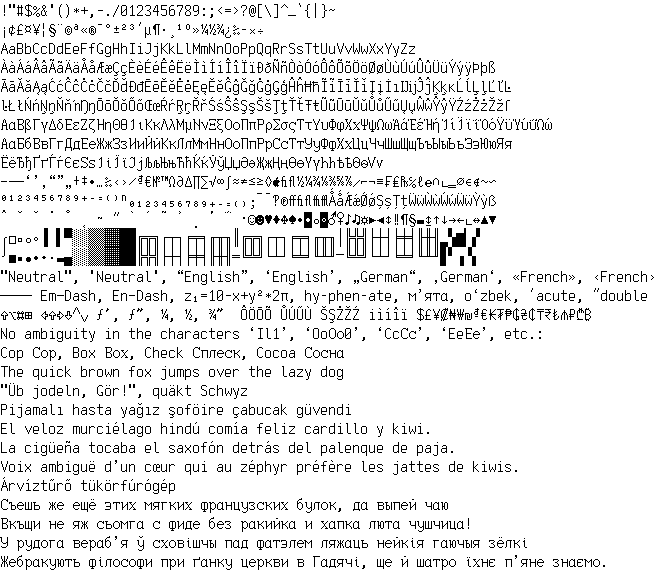
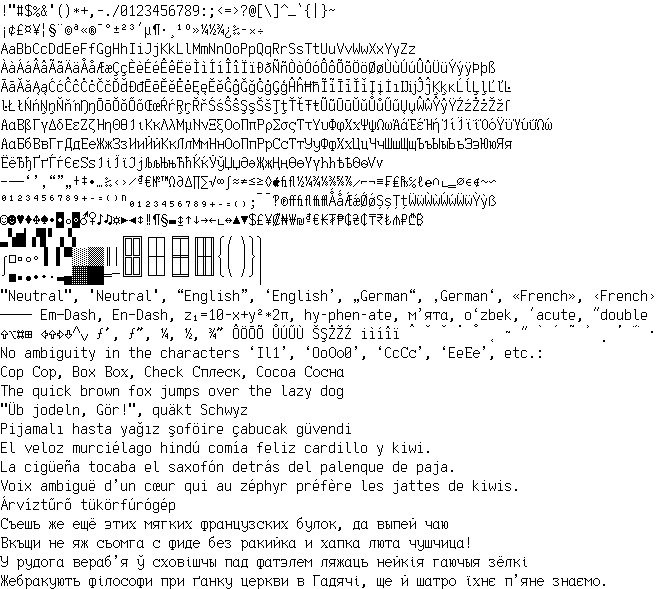
New codepoints

Changed region(s): [[0.0, 0.0, 1.0, 1.0], [0.5488, 0.8649, 0.7927, 1.0], [0.7927, 0.9842, 0.9146, 1.0]]

diff --git a/export.js b/export.js
@@ -52,7 +52,7 @@ function getAsciiImage() {
 function getTableText() {
     let latestGroup = '';
     let latestPos = 0;
-    const groupCols = ['000', '039', '220'];
+    const groupCols = ['000', '034', '219'];
     const colHeader = 'Code ' + [...Array(16).keys()].map(n => toHex(n, 1)).join(' ') + ' ';
     const cols = groupCols.map(() => [colHeader])
     for (let char of chars) {
@@ -129,15 +129,16 @@ writeFileSync('./Example.png', getImage([
     'ЁёЂђҐґЃѓЄєЅѕІіЇїЈјЉљЊњЋћЌќЎўЏџӘәҖҗҢңӨөҮүҺһѢѣѲѳѴѵ',
     '–—―‘’‚“”„†‡•…‰‹›⁄₫€№™Ω∂∆∏∑√∞∫≈≠≤≥◊\uF8FFﬁﬂ½¼¾⅛⅜⅝⅞∕⌐¬≡₣₤₧℅ℓ℮∩∟‗⌀∈∉∼∽',
     '⁰¹²³⁴⁵⁶⁷⁸⁹⁺⁻⁼⁽⁾ⁿ₀₁₂₃₄₅₆₇₈₉₊₋₌₍₎;‾ˉ‽℗ﬀﬁﬂﬃﬄǺǻǼǽǾǿȘșȚțẄẅẀẁẂẃẄẅỲỳẞ',
-    'ˆ ˇ ˘ ˙ ˚ ˛ ˜ ˝ ̀ ́ ̃ ̉ ̣ ΄ ΅ ·☺☻♥♦♣♠•◘○◙♂♀♪♫☼►◄↕‼¶§▬↨↑↓→←∟↔▲▼',
-    '⌠□▫○◦▐ ▌▀░░▒▒▓▓██╔╦╗┌┬┐╒╤╕╓╥╖║╔╦╗┌┬┐╒╤╕╓╥╖│╠╬╣├┼┤╞╪╡╟╫╢▂▚▆▎▞',
-    '⌡■▪●•∙·▬▄░░▒▒▓▓██╠╬╣├┼┤╞╪╡╟╫╢═╚╩╝└┴┘╘╧╛╙╨╜─╚╩╝└┴┘╘╧╛╙╨╜▊▘▗▝▖',
+    '☺☻♥♦♣♠•◘○◙♂♀♪♫☼►◄↕‼¶§▬↨↑↓→←∟↔▲▼$£¥₡₦₩₪₫€₭₮₱₲₴₵₸₹₺₼₽₾₿',
+    '▂▚▆▎▞▊▘▗▝▖     ╔╦╗┌┬┐╒╤╕╓╥╖⎧⎛ ⎞⎫⎫',
+    '⌠□▫○◦▐ ▌▀░░▒▒║│╠╬╣├┼┤╞╪╡╟╫╢⎨⎜ ⎟⎬⎪',
+    '⌡■▪●•∙·▬▄▓▓██═─╚╩╝└┴┘╘╧╛╙╨╜⎩⎝ ⎠⎭⎪',
     //TODO: '╮╰╯╭╲╱◥▔▁▏▕◤▍▃✓✔✕✖╳⚠ℹ',
     //TODO: Mac OS Symbol/Font X
-    //'∠⊗⊕∅⏐⎯↵ϒ⊥ϖℵℑℜ℘ϑϕ∝∇∴⎷√╲╱⌟≃⎼␤⋅∪⊃⊂∧∨⇔⇐⇑⇒⇓⊇⊄⊆⟨⟩⎲⎳⎡⎣⎤⎦⎛⎝⎞⎠⎨⎬⎜⎢⎧⎩⎪⎮⎟⎥⎫⎭',    
+    //'∠⊗⊕∅⏐⎯↵ϒ⊥ϖℵℑℜ℘ϑϕ∝∇∴⎷√╲╱⌟≃⎼␤⋅∪⊃⊂∧∨⇔⇐⇑⇒⇓⊇⊄⊆⟨⟩⎲⎳⎡⎣⎤⎦⎢⎮⎥',
     '"Neutral", \'Neutral\', “English”, ‘English’, „German“, ‚German‘, «French», ‹French›',
     '―――― Em—Dash, En–Dash, z₁=10-x+y²*2π, hy‐phen‐ate, мʼята, oʻzbek, ´acute, ˝double',
-    '⇧⌥⌘⊞ ⇦⇧⇨⇩⌃⌄ ƒ′, ƒ″, ¼, ½, ¾″ ÔÖŌÕ ŮÚŰÙ ŠŞŻŽŹ iìíîï $£¥₡₦₩₪₫€₭₮₱₲₴₵₸₹₺₼₽₾₿',
+    '⇧⌥⌘⊞ ⇦⇧⇨⇩⌃⌄ ƒ′, ƒ″, ¼, ½, ¾″ ÔÖŌÕ ŮÚŰÙ ŠŞŻŽŹ iìíîï ˆ ˇ ˘ ˙ ˚ ˛ ˜ ˝ ̀ ́ ̃ ̉ ̣ ΄ ΅ ·',
     'No ambiguity in the characters ‘Il1’, ‘OoОо0’, ‘CcСс’, ‘EeЕе’, etc.:',
     'Cop Сор, Box Вох, Check Сплеск, Cocoa Сосна',
     'The quick brown fox jumps over the lazy dog',
